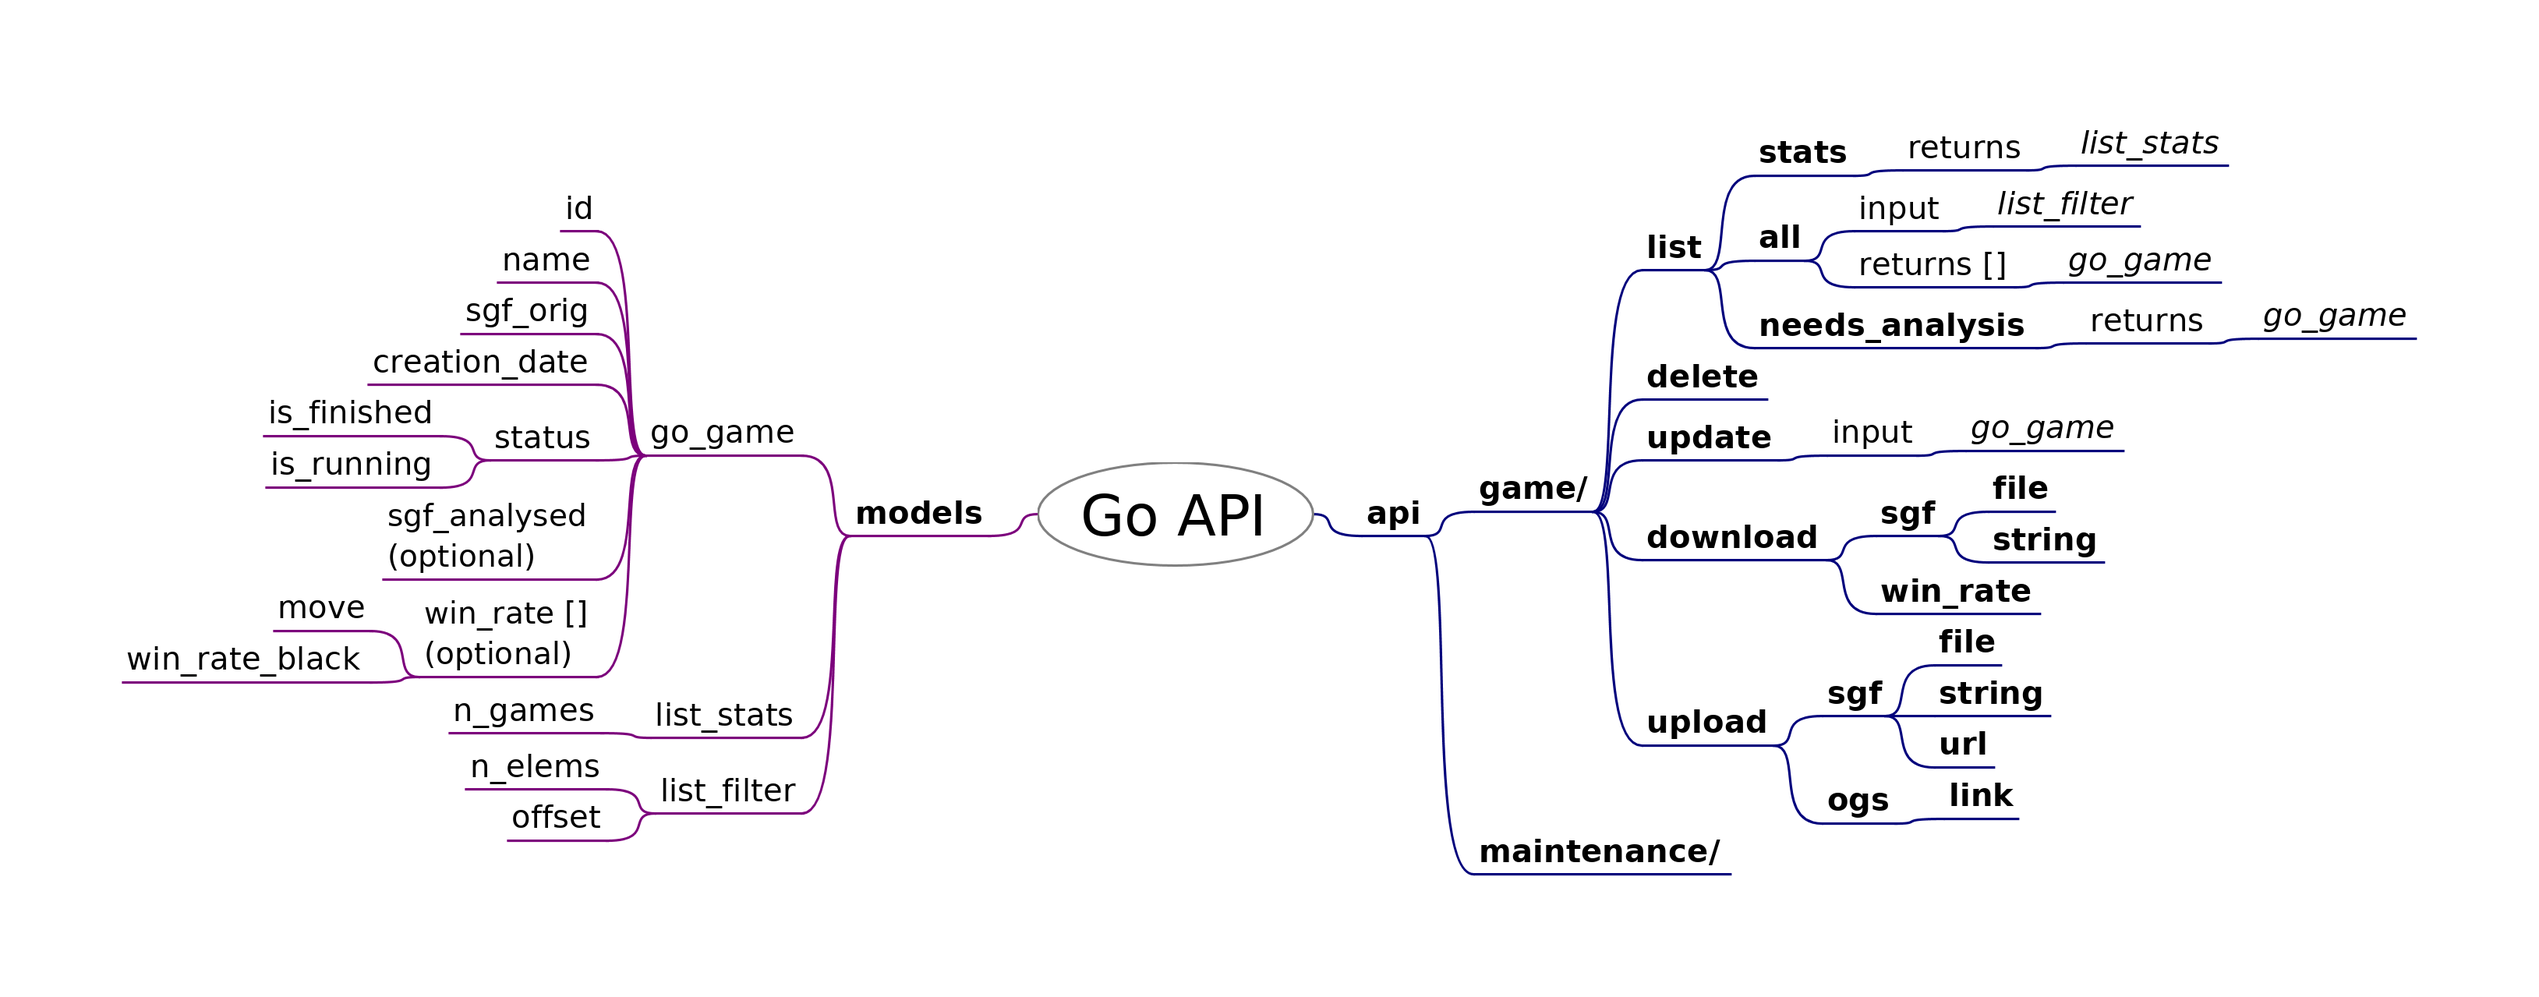
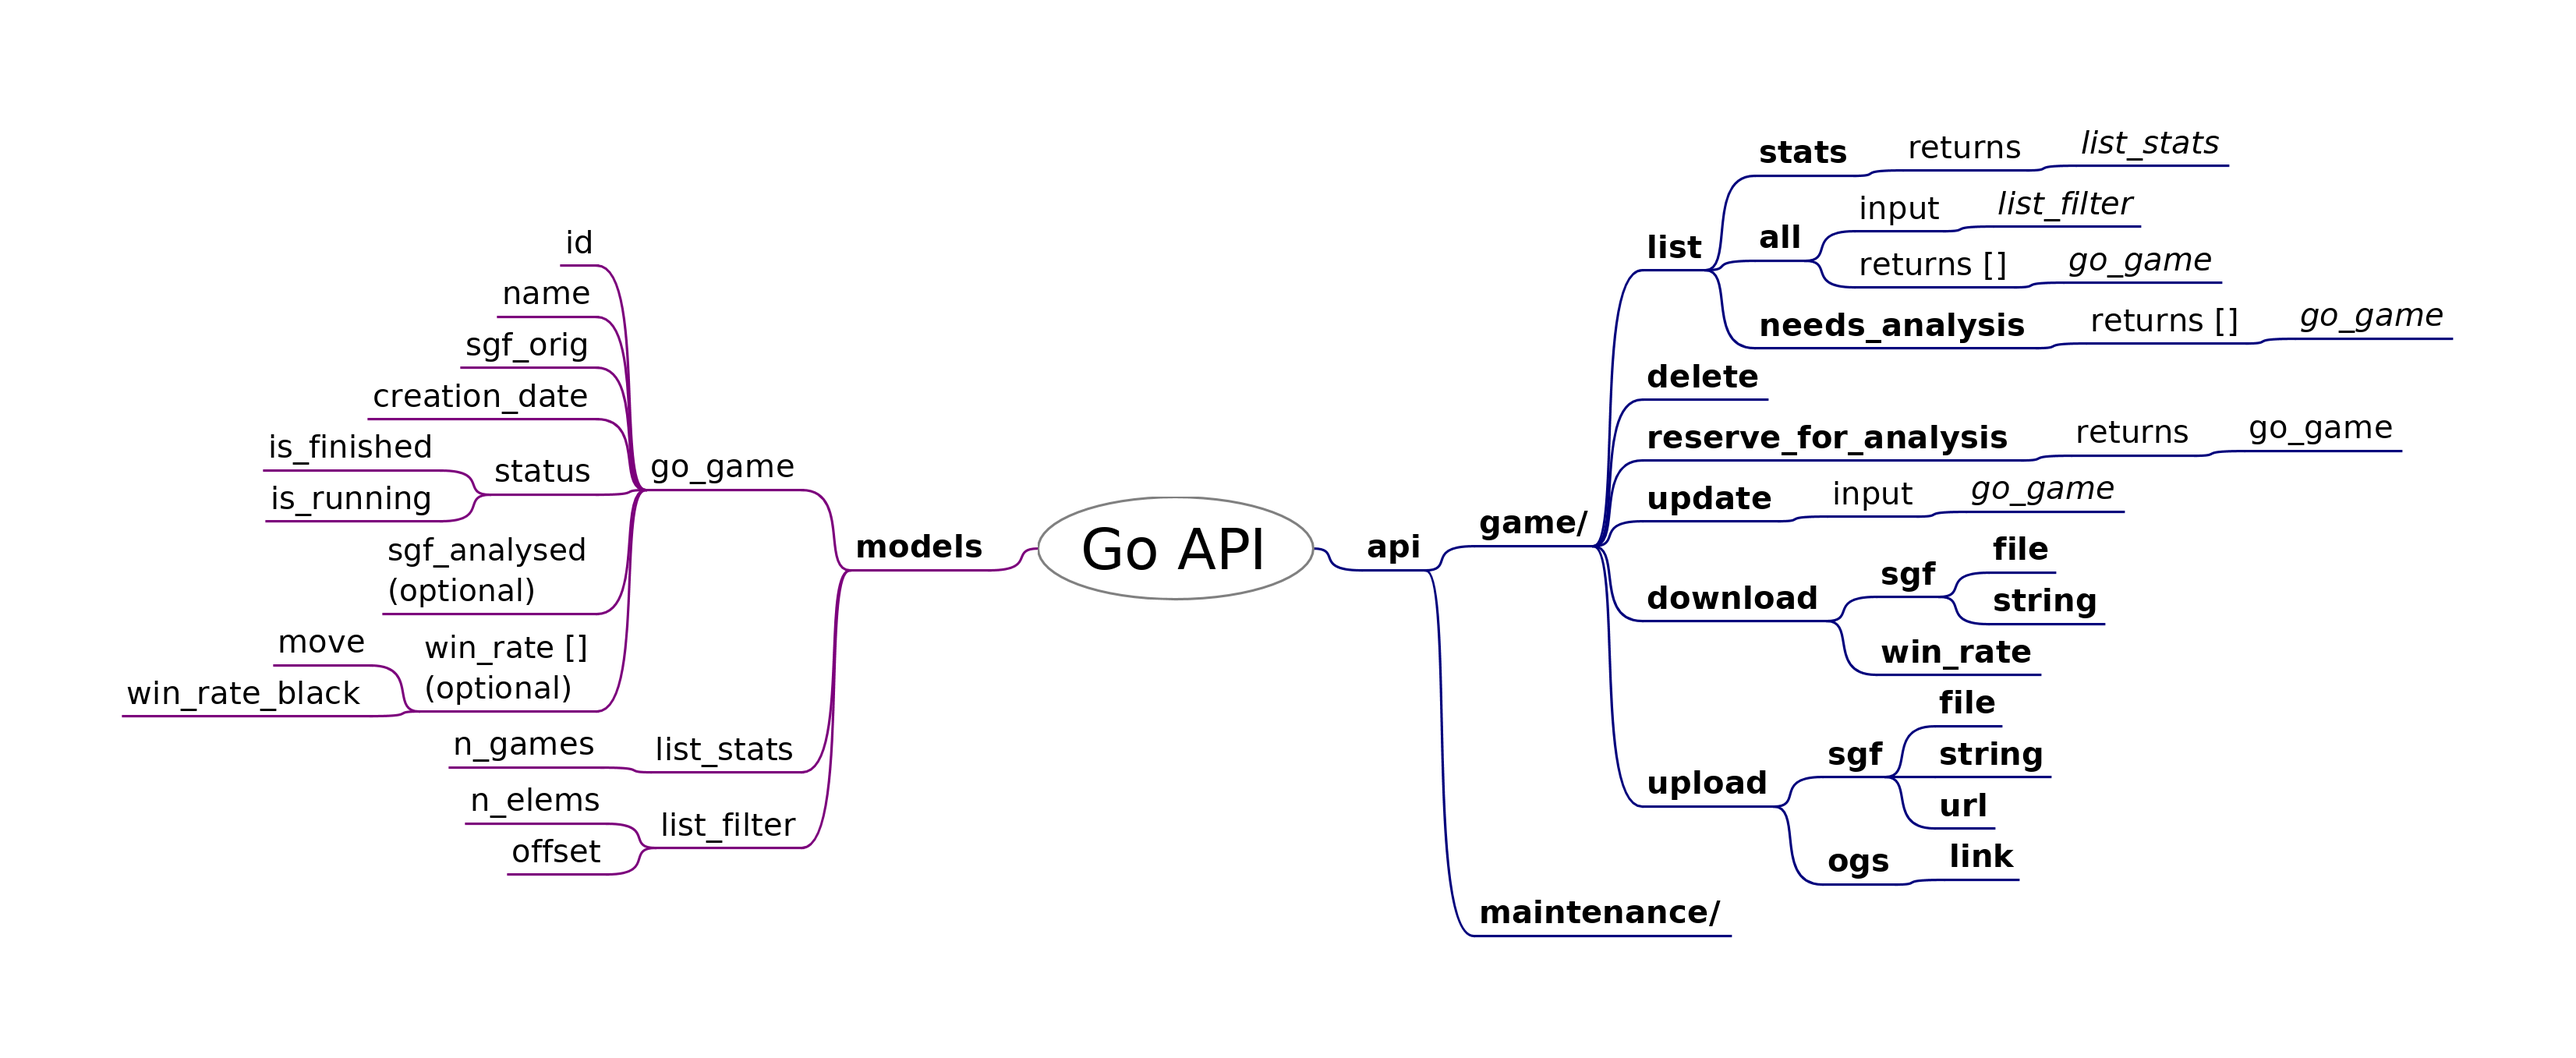
made the request_for_analysis endpoint atomic w.r.t. database

Changed region(s): [[0.031, 0.122, 0.9613, 0.8538], [0.5582, 0.8233, 0.6822, 0.8843]]

diff --git a/lz_api/src/apis/game.py b/lz_api/src/apis/game.py
@@ -62,6 +62,15 @@ game_model = api.model('Game', model={
 })
 
 
+@api.route('/is_alive')
+class IsAlive(Resource):
+    def post(self):
+        """
+        Test to check if this server is already running and responding.
+        """
+        return 'OK', 200
+
+
 @api.route('/list/all')
 class ListAll(Resource):
     @api.marshal_list_with(game_model)
@@ -80,18 +89,38 @@ class ListAll(Resource):
 
 
 @api.route('/list/needs_analysis')
-class ListAll(Resource):
+class ListNeedsAnalysis(Resource):
     @api.marshal_list_with(game_model)
-    @api.response(204, 'No available game could be found.')
     def post(self):
         """
-        Returns the next game which still need an analysis (FIFO).
+        Returns games which still need an analysis (FIFO).
         """
         _, coll = db_conn.get_database_connection()
 
-        game = coll.find_one({'status.is_finished': False,
-                              'status.is_running': False},
-                             sort=[('creation_date', 1)])
+        games = coll.find({'status.is_finished': False,
+                           'status.is_running': False},
+                          sort=[('creation_date', 1)])
+
+        for game in games:
+            game['game_id'] = game['_id']
+
+        return games, 200
+
+
+@api.route('/reserve_for_analysis')
+class ReserveAnalysis(Resource):
+    @api.marshal_with(game_model)
+    @api.response(204, 'No available game could be found.')
+    def post(self):
+        """
+        Returns and reserves the next game which needs an analysis (FIFO).
+        """
+        _, coll = db_conn.get_database_connection()
+
+        game = coll.find_one_and_update(
+            {'status.is_finished': False, 'status.is_running': False},
+            {'$set': {'status.is_finished': False, 'status.is_running': True}},
+            sort=[('creation_date', 1)])
 
         if game is None:
             return 'No game found.', 204

diff --git a/lz_worker/src/worker.py b/lz_worker/src/worker.py
@@ -23,17 +23,27 @@ if __name__ == "__main__":
     print(f'Using now the api server address {api_server}:{api_port}')
     api_address = f'http://{api_server}:{api_port}'
 
+    connected = False
+    while not connected:
+        try:
+            r = requests.post(api_address + '/game/is_alive')
+            if r.status_code == 200:
+                connected = True
+        except:
+            connected = False
+
+        if not connected:
+            print(f'Failed to connect to the api server {api_address}. Try to re-connect in 5.')
+            time.sleep(5)
+
+    print(f'Connection to the api server {api_address} succeeded.')
+
     while True:
-        r = requests.post(api_address + '/game/list/needs_analysis')
+        r = requests.post(api_address + '/game/reserve_for_analysis')
         if r.status_code == 204:
             pass
         elif r.status_code == 200:
             game = r.json()
-
-            # update game status
-            game['status']['is_finished'] = False
-            game['status']['is_running'] = True
-            requests.post(api_address + '/game/update', json=game)
 
             #  TODO: process that game <09-05-19, Christoph Hermes> # 
             print('LEELA PROCESSING...')

diff --git a/lz_api/doc/Go_API.mm b/lz_api/doc/Go_API.mm
@@ -95,7 +95,7 @@
 </node>
 <node TEXT="needs_analysis" ID="ID_1889629552" CREATED="1557428253600" MODIFIED="1557429050066">
 <font BOLD="true"/>
-<node TEXT="returns" ID="ID_1637431213" CREATED="1557170690087" MODIFIED="1557428471509">
+<node TEXT="returns []" ID="ID_1637431213" CREATED="1557170690087" MODIFIED="1557665928046">
 <node TEXT="go_game" ID="ID_1111505419" CREATED="1557170698064" MODIFIED="1557170701584">
 <font ITALIC="true"/>
 </node>
@@ -104,6 +104,12 @@
 </node>
 <node TEXT="delete" ID="ID_1295768095" CREATED="1557085569047" MODIFIED="1557170862769">
 <font BOLD="true"/>
+</node>
+<node TEXT="reserve_for_analysis" ID="ID_1616344590" CREATED="1557665900027" MODIFIED="1557666122179">
+<font BOLD="true"/>
+<node TEXT="returns" ID="ID_963354544" CREATED="1557665914243" MODIFIED="1557665915558">
+<node TEXT="go_game" ID="ID_1502445578" CREATED="1557665916123" MODIFIED="1557665918486"/>
+</node>
 </node>
 <node TEXT="update" ID="ID_1105595237" CREATED="1557085595349" MODIFIED="1557170863201">
 <font BOLD="true"/>
